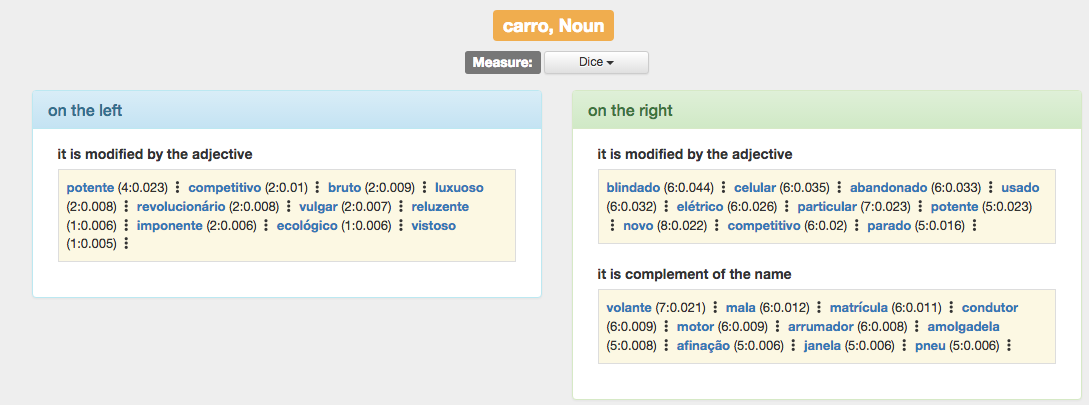
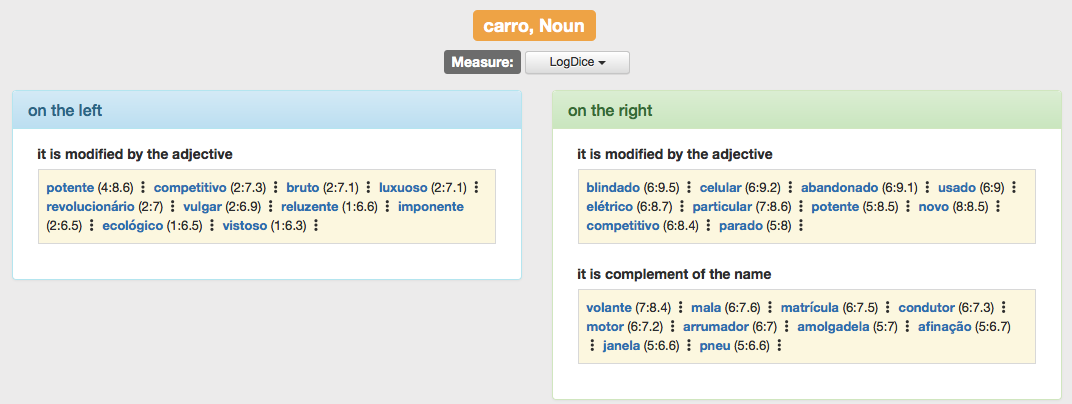
alterações no apsecto e na funcionalidade

diff --git a/Web/partials/help.html b/Web/partials/help.html
@@ -6,14 +6,14 @@
 	  				class="img-responsive img-rounded" >
 	  	</div>
 	  	<p>
-			This form is presented to the user where this can choose 
-			the <strong> word's lemma (1)</strong> and <strong>POS (2)</strong> and 
-			also the <strong>association measure (3)</strong>. 
+			The form presented to the user allows him/her to choose 
+			the <strong> word's lemma (1)</strong> and <strong>POS (2)</strong> 
+			and also the <strong>association measure (3)</strong>. 
 			However, the user can still choose some additional options 
-			like <strong>the minimum frequency</strong> of each 
-			co-occurrence and the <strong>maximum number of words</strong> 
+			like <strong>the minimum frequency (5)</strong> of each 
+			co-occurrence and the <strong>maximum number of words (5)</strong> 
 			in each dependency-property pattern. 
-			The button <strong>Search (6)</strong> show the result for the lemma searched.
+			The button <strong>Search (6)</strong> shows the result for the selected lemma.
 		</p>
 
 		<div class ="image_text" >
@@ -21,20 +21,18 @@
 	  				class="img-responsive img-rounded" >
 	  	</div>	
 	  	<p>
-	  		The image shows an example with a set of co-occurrences detected for the 
-	  		<strong>noun</strong> <strong>"país"</strong>. 
+	  		The image shows an example with a set of co-occurrences detected for the <strong>noun</strong> <strong>"carro"</strong>. 
 	  		The association measure selected for this result was <strong>LogDice</strong>.
 	  	</p>
 
 	  	<p>
-	  		When the word has a result, this is presented in two groups: word to the left and word to the right with whom it co-occurs. For each dependency-property pattern in which the target word is 	involved, the words that co-occur with the target word are presented in descending order of the selected association measure value.  
+	  		The result is presented in two groups: word on the left and word on the right with whom it co-occurs. For each dependency-property pattern in which the target word is involved, the words that co-occur with the target word are presented in descending order of the selected association measure value.  
 			Each word that co-occurs is displayed in the format <strong>lemma (l:m)</strong>, where <strong>l</strong> is the base 2 logarithm of the co-occurrence's frequency, and <strong>m</strong> the value of the selected measure. 
 			The user may change the association measure without having to re-entering the information about the current word.
 	  	</p>
 	  		
 	  	<p>
-	  		In the result, it is possible to ask for more information about a specific co-occurrence. By clicking on a word present in the result, the server is queried for a set of sentences in which this word occurred. 
-			As a result the user is presented the details of this co-occurrence and the set of sentences that exemplify the co-occurrence in the corpus.
+	  		In the result, it is possible to get more information about a specific co-occurrence. By clicking a word, it is shown the details of this co-occurrence and the set of sentences that exemplifies the co-occurrence in the corpus.
 	  	</p>
 	  	<div class ="image_text" >
 	  			<img src="images/frases_carro_help.png" alt="architecture"  

diff --git a/Web/partials/about.html b/Web/partials/about.html
@@ -19,13 +19,13 @@
 	  		The XIP syntactic dependencies analysed in this project are:
 
 			<ul>
-	  			<li><strong>SUBJ</strong> dependency: links a verb and its subject;</li>
-	  			<li><strong>CDIR</strong> dependency: links a verb and its direct complement;</li>
-	  			<li><strong>CINDIR</strong>  dependency: links the verb with a prepositional phrase;</li>
-	  			<li><strong>MOD</strong>  dependency: links a modifier with the modified element;</li>
-	  			<li><strong>COMPL</strong>  dependency: links a predicate (verb, noun or adjective) to each of its essential complements;</li>
-	  			<li><strong>QUANTD</strong>  dependency: links a nominal head and a quantifier;</li>
-	  			<li><strong>CLASSD</strong>  dependency: links a nominal head and a nominal classifier.</li>
+	  			<li><strong>SUBJ</strong>: links a verb and its subject;</li>
+	  			<li><strong>CDIR</strong>: links a verb and its direct complement;</li>
+	  			<li><strong>CINDIR</strong>: links the verb with a prepositional phrase;</li>
+	  			<li><strong>MOD</strong>: links a modifier with the modified element;</li>
+	  			<li><strong>COMPL</strong>: links a predicate (verb, noun or adjective) to each of its essential complements;</li>
+	  			<li><strong>QUANTD</strong>: links a nominal head and a quantifier;</li>
+	  			<li><strong>CLASSD</strong>: links a nominal head and a nominal classifier.</li>
 			</ul>
 
 			A semantic dependency, Named Entity (NE), was also considered. This dependency delimits named entities and assigns them to several general categories. The categories used in this system are presented in the following table. 
